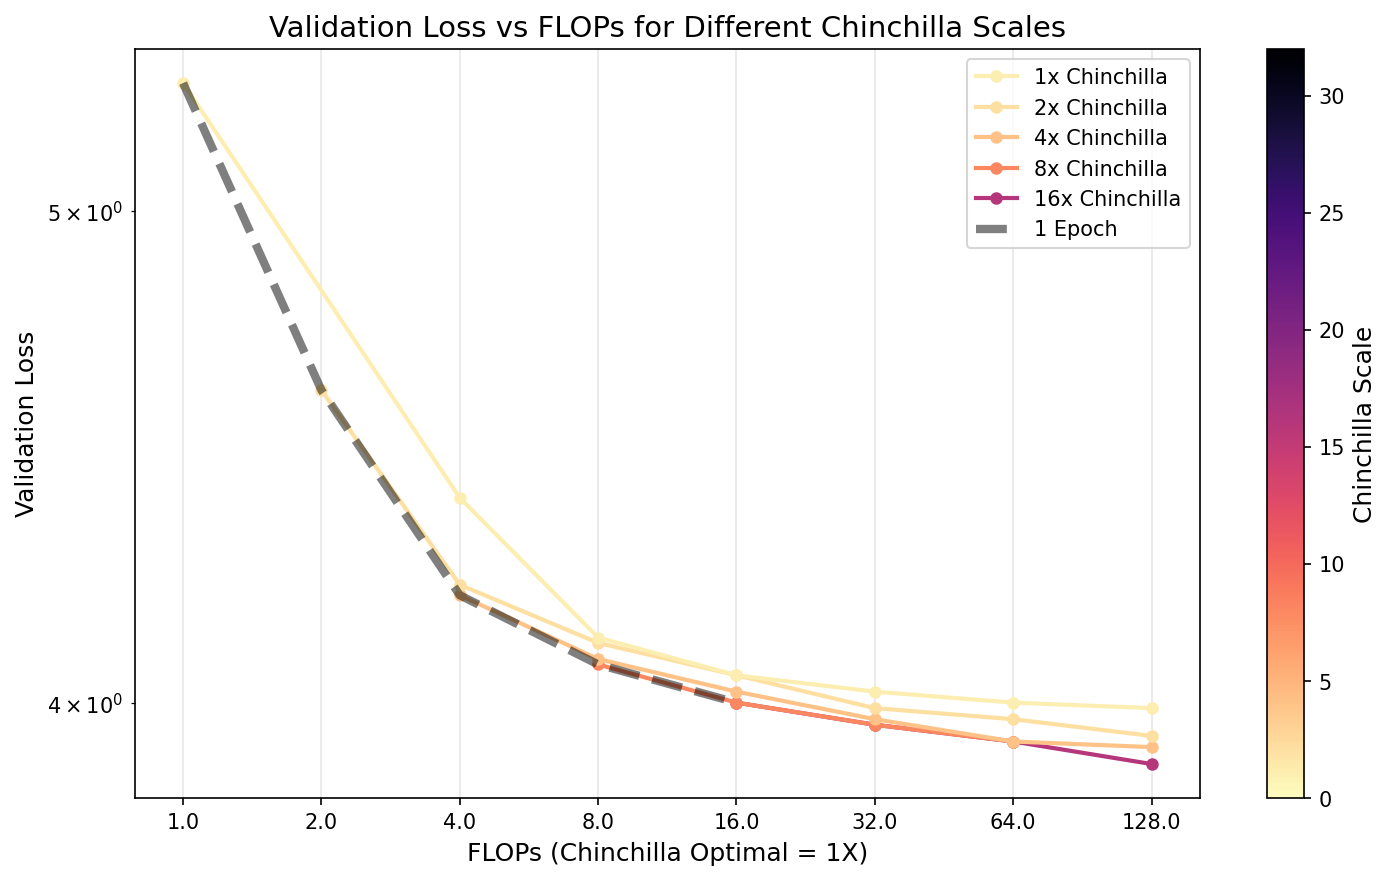
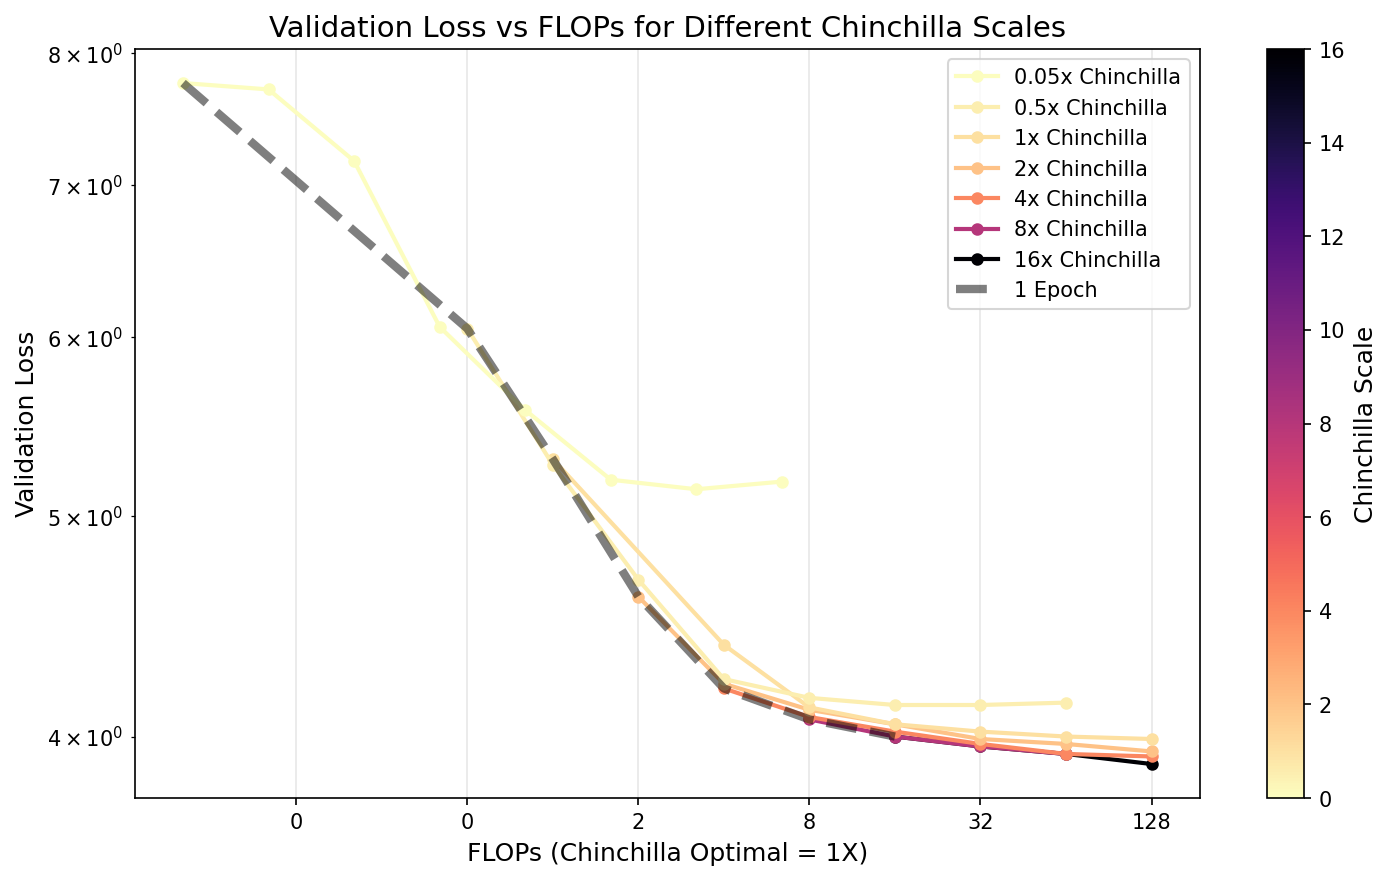
update iso contour with small ttp values

diff --git a/results/isoloss_contour.py b/results/isoloss_contour.py
@@ -1,0 +1,204 @@
+import numpy as np
+import matplotlib.pyplot as plt
+from scipy.interpolate import griddata
+from matplotlib.colors import LinearSegmentedColormap
+
+# Import data from case4_analysis.py
+from case4_analysis import data_0_05x, data_0_5x, data_1x, data_2x, data_4x, data_8x, data_16x
+
+# Combine all data
+all_data = [data_0_05x, data_0_5x, data_1x, data_2x, data_4x, data_8x, data_16x]
+
+flops = []
+epochs = []
+data_amount = []
+val_loss = []
+
+for data in all_data:
+    for i in range(len(data['flops_multiplier'])):
+        if not np.isnan(data['validation_loss'][i]):
+            flops.append(data['flops_multiplier'][i])
+            epochs.append(data['epochs'][i])
+            data_amount.append(data['chinchilla_scale'][i])
+            val_loss.append(data['validation_loss'][i])
+
+flops = np.array(flops)
+epochs = np.array(epochs)
+data_amount = np.array(data_amount)
+val_loss = np.array(val_loss)
+
+# Create custom colormap (lighter brown/red to orange/yellow - adjusted so lower end is not completely black)
+colors = ['#8b3a1e', '#a84828', '#c45a32', '#d97040', '#e88850', 
+          '#f4a060', '#ffb870', '#ffc880', '#ffd890', '#ffe8a0']
+cmap = LinearSegmentedColormap.from_list('isoloss', colors, N=256)
+
+
+def create_contour_plot(ax, x_data, y_data, z_data, x_label, x_ticks, x_ticklabels,
+                        title, x_lim, diag_label, show_diagonal=True):
+    """Create a contour plot with the given data and settings on the provided axis."""
+
+    ax.set_facecolor('white')
+
+    # Create grid for interpolation (in log space for better results)
+    log_x = np.log10(x_data)
+    log_y = np.log10(y_data)
+
+    # Create fine grid
+    grid_log_x = np.linspace(log_x.min() - 0.1, log_x.max() + 0.1, 200)
+    grid_log_y = np.linspace(log_y.min() - 0.1, log_y.max() + 0.1, 200)
+    grid_x, grid_y = np.meshgrid(grid_log_x, grid_log_y)
+
+    # Interpolate
+    grid_z = griddata(
+        (log_x, log_y), 
+        z_data, 
+        (grid_x, grid_y), 
+        method='cubic'
+    )
+
+    # Define contour levels
+    levels = np.arange(3.85, 5.4, 0.1)
+
+    # Plot filled contours
+    contourf = ax.contourf(
+        10**grid_x, 10**grid_y, grid_z,
+        levels=levels,
+        cmap=cmap,
+        alpha=0.7,
+        extend='both'
+    )
+
+    # Plot contour lines
+    contour = ax.contour(
+        10**grid_x, 10**grid_y, grid_z,
+        levels=levels,
+        colors='darkred',
+        linewidths=0.8,
+        alpha=0.9
+    )
+
+    # Add contour labels
+    ax.clabel(contour, inline=True, fontsize=9, fmt='%.2f', 
+              colors='darkred', inline_spacing=5)
+
+    # Plot actual data points with color based on loss value
+    scatter = ax.scatter(
+        x_data, y_data, 
+        c=z_data, 
+        cmap=cmap,
+        s=80, 
+        edgecolors='black', 
+        linewidths=1.2,
+        zorder=5,
+        vmin=z_data.min(),
+        vmax=z_data.max()
+    )
+
+    # Add validation loss labels next to each dot
+    for i in range(len(x_data)):
+        ax.annotate(f'{z_data[i]:.2f}', 
+                    (x_data[i], y_data[i]),
+                    xytext=(8, 8), textcoords='offset points',
+                    fontsize=9, fontweight='bold',
+                    bbox=dict(boxstyle='round,pad=0.2', facecolor='white', 
+                             edgecolor='gray', alpha=0.8, linewidth=0.5),
+                    zorder=6)
+
+    # Highlight specific points (best and 1x 1-epoch baseline)
+    best_idx = np.argmin(z_data)
+
+    # Mark best point with a white star
+    ax.scatter(x_data[best_idx], y_data[best_idx],
+               marker='*', s=400, c='white', edgecolors='black',
+               linewidths=2, zorder=10)
+
+    # Mark 1x 1-epoch point with a black filled star
+    # Find the point where y_data (chinchilla scale) is 1
+    baseline_idx = np.where(y_data == 1)[0]
+    if len(baseline_idx) > 0:
+        # Find the one with minimum x_data (1 epoch = lowest flops for that scale)
+        min_x_idx = baseline_idx[np.argmin(x_data[baseline_idx])]
+        ax.scatter(x_data[min_x_idx], y_data[min_x_idx],
+                   marker='*', s=400, c='black', edgecolors='black',
+                   linewidths=2, zorder=10)
+
+    # Set log scale for both axes
+    ax.set_xscale('log')
+    ax.set_yscale('log')
+
+    # Set axis labels and title
+    ax.set_xlabel(x_label, fontsize=14, fontweight='bold')
+    ax.set_ylabel('Fresh Data Size (Chinchilla Scale)', fontsize=14, fontweight='bold')
+    ax.set_title(title, fontsize=16, fontweight='bold', pad=20)
+
+    # Customize tick labels for y-axis
+    y_ticks = [0.5, 1, 2, 4, 8, 16]
+    ax.set_yticks(y_ticks)
+    ax.set_yticklabels(['0.5x', '1x', '2x', '4x', '8x', '16x'])
+
+    # Customize tick labels for x-axis
+    ax.set_xticks(x_ticks)
+    ax.set_xticklabels(x_ticklabels)
+
+    # Add a diagonal line (iso-compute line) similar to reference
+    if show_diagonal:
+        diag_x = np.array([x_lim[0], x_lim[1]])
+        diag_y = diag_x  # slope of 1 in log-log space
+        ax.plot(diag_x, diag_y, 'k--', linewidth=2.5, alpha=0.7, label=diag_label)
+
+    # Add grid
+    ax.grid(True, alpha=0.3, linestyle='-', linewidth=0.5)
+
+    # Add legend (only if diagonal line is shown)
+    if show_diagonal:
+        ax.legend(loc='upper left', fontsize=10)
+
+    # Set axis limits
+    ax.set_xlim(x_lim[0] * 0.8, x_lim[1] * 1.15)
+    ax.set_ylim(0.04, 20)
+
+    return scatter
+
+
+# Create figure with two side-by-side subplots
+fig, (ax1, ax2) = plt.subplots(1, 2, figsize=(18, 8))
+fig.patch.set_facecolor('white')
+
+# Plot 1: FLOPS on x-axis
+scatter1 = create_contour_plot(
+    ax=ax1,
+    x_data=flops,
+    y_data=data_amount,
+    z_data=val_loss,
+    x_label='FLOPS Multiplier',
+    x_ticks=[0.5, 1, 4, 8, 16, 32, 64, 128],
+    x_ticklabels=['0.5', '1', '4', '8', '16', '32', '64', '128'],
+    title='Loss Contours (FLOPS)',
+    x_lim=(0.5, 128),
+    diag_label='Single-epoch baseline'
+)
+
+# Plot 2: Epochs on x-axis
+scatter2 = create_contour_plot(
+    ax=ax2,
+    x_data=epochs,
+    y_data=data_amount,
+    z_data=val_loss,
+    x_label='Epochs',
+    x_ticks=[1, 2, 4, 8, 16, 32, 64, 128],
+    x_ticklabels=['1', '2', '4', '8', '16', '32', '64', '128'],
+    title='Loss Contours (Epochs)',
+    x_lim=(1, 128),
+    diag_label='Single-epoch baseline',
+    show_diagonal=False
+)
+
+# Adjust subplot spacing and add colorbar on the right
+plt.subplots_adjust(right=0.92, wspace=0.25)
+cbar_ax = fig.add_axes([0.94, 0.15, 0.02, 0.7])
+cbar = fig.colorbar(scatter2, cax=cbar_ax)
+cbar.set_label('Validation Loss', fontsize=12, fontweight='bold')
+
+plt.savefig('/n/home05/sqin/OLMo-core/results/isoloss_contour.png', dpi=150,
+            bbox_inches='tight', facecolor='white', edgecolor='none')
+print("Plot saved to isoloss_contour.png")

diff --git a/results/case4_analysis.py b/results/case4_analysis.py
@@ -2,6 +2,26 @@ import numpy as np
 import matplotlib.pyplot as plt
 from matplotlib.ticker import ScalarFormatter
 
+data_0_05x = {
+    'chinchilla_scale': [0.05, 0.05, 0.05, 0.05, 0.05, 0.05, 0.05, 0.05],
+    'epochs': [1, 2, 4, 8, 16, 32, 64, 128],
+    'flops_multiplier': [0.05, 0.1, 0.2, 0.4, 0.8, 1.6, 3.2, 6.4],
+    'validation_loss': [7.76, 7.71, 7.17, 6.06, 5.57, 5.19, 5.14, 5.18],
+    'learning_rate': [0.02, 0.002, 0.003, 0.06, 0.06, 0.03, 0.01, 0.03],
+    'weight_decay': [1.6, 0.1, 0.4, 1.6, 0.4, 0.8, 0.8, 1.6]
+}
+
+
+data_0_5x = {
+    'chinchilla_scale': [0.5, 0.5, 0.5, 0.5, 0.5, 0.5, 0.5, 0.5],
+    'epochs': [1, 2, 4, 8, 16, 32, 64, 128],
+    'flops_multiplier': [0.5, 1, 2,4, 8, 16, 32, 64],
+    'validation_loss': [6.05, 5.27, 4.69, 4.24, 4.16, 4.13, 4.13, 4.14],
+    'learning_rate': [0.06, 0.06, 0.06, 0.03, 0.03, 0.01, 0.01, 0.03],
+    'weight_decay': [0.4, 0.4, 0.1, 0.1, 0.1, 0.1, 0.1, 0.1]
+}
+
+
 data_1x = {
     'chinchilla_scale': [1, 1, 1, 1, 1, 1, 1],
     'epochs': [1, 4, 8, 16, 32, 64, 128],
@@ -49,6 +69,8 @@ data_16x = {
 
 # Collect all datasets with markers
 datasets = [
+    (data_0_05x, '0.05x Chinchilla', 'o'),
+    (data_0_5x, '0.5x Chinchilla', 'o'),
     (data_1x, '1x Chinchilla', 'o'),
     (data_2x, '2x Chinchilla', 'o'),
     (data_4x, '4x Chinchilla', 'o'),
@@ -57,8 +79,8 @@ datasets = [
 ]
 
 # Get unique chinchilla scales for colormap
-chinchilla_values = [1, 4, 8, 16]
-norm = plt.Normalize(vmin=0, vmax=32)
+chinchilla_values = [0.05, 0.5, 1, 2, 4, 8, 16]
+norm = plt.Normalize(vmin=0, vmax=16)
 cmap = plt.cm.magma_r
 
 # Create figure
